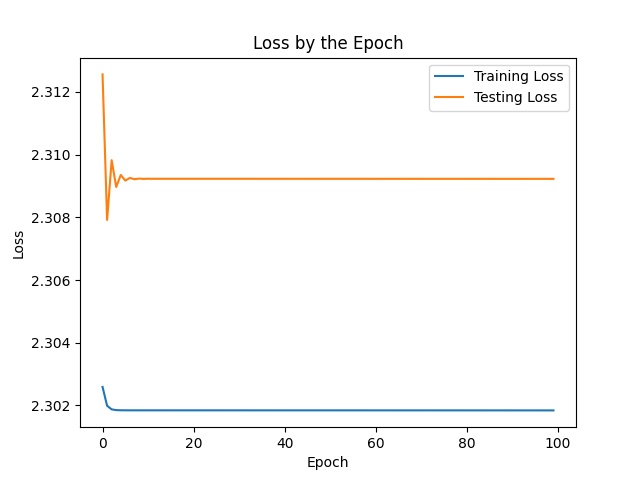
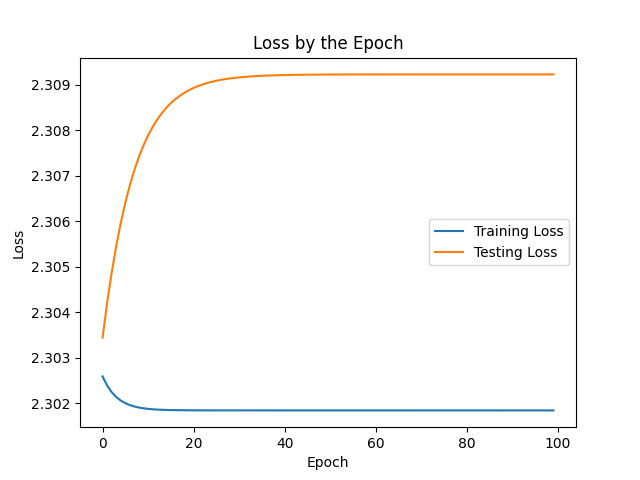
better results

diff --git a/main.py b/main.py
@@ -6,7 +6,7 @@ import json
 from pathlib import Path
 
 # Hyperparameters
-LEARNING_RATE = 0.01
+LEARNING_RATE = 0.001
 REG_STRENGTH = 0.0001
 EPOCHS = 100
 
